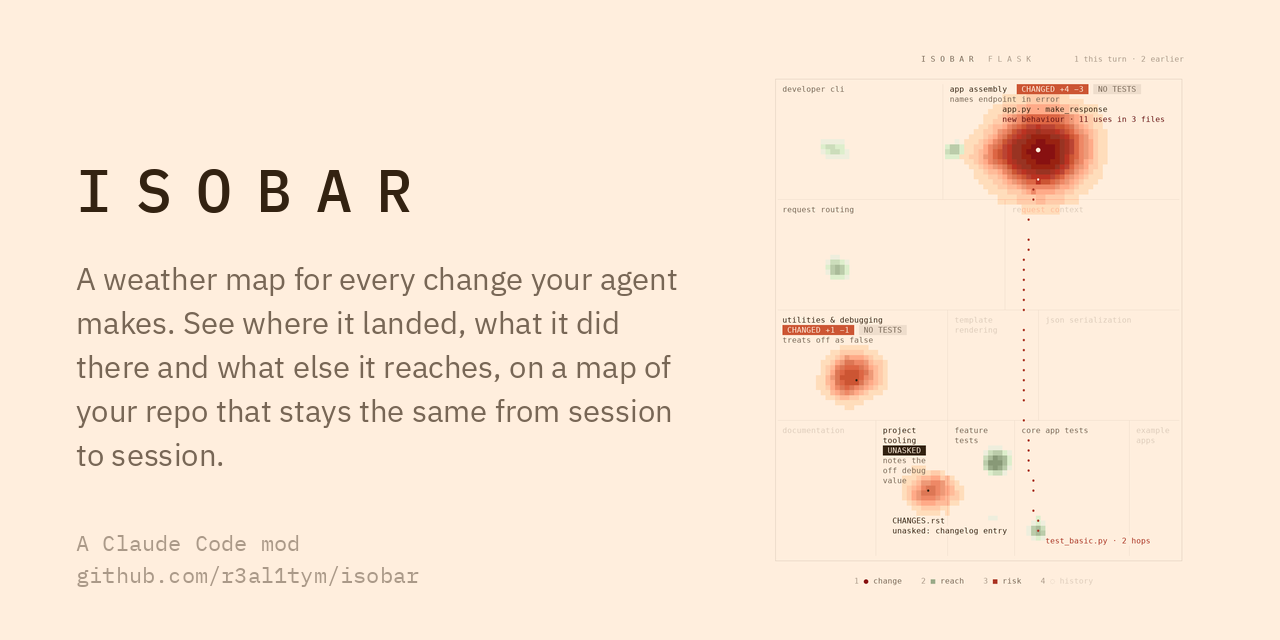
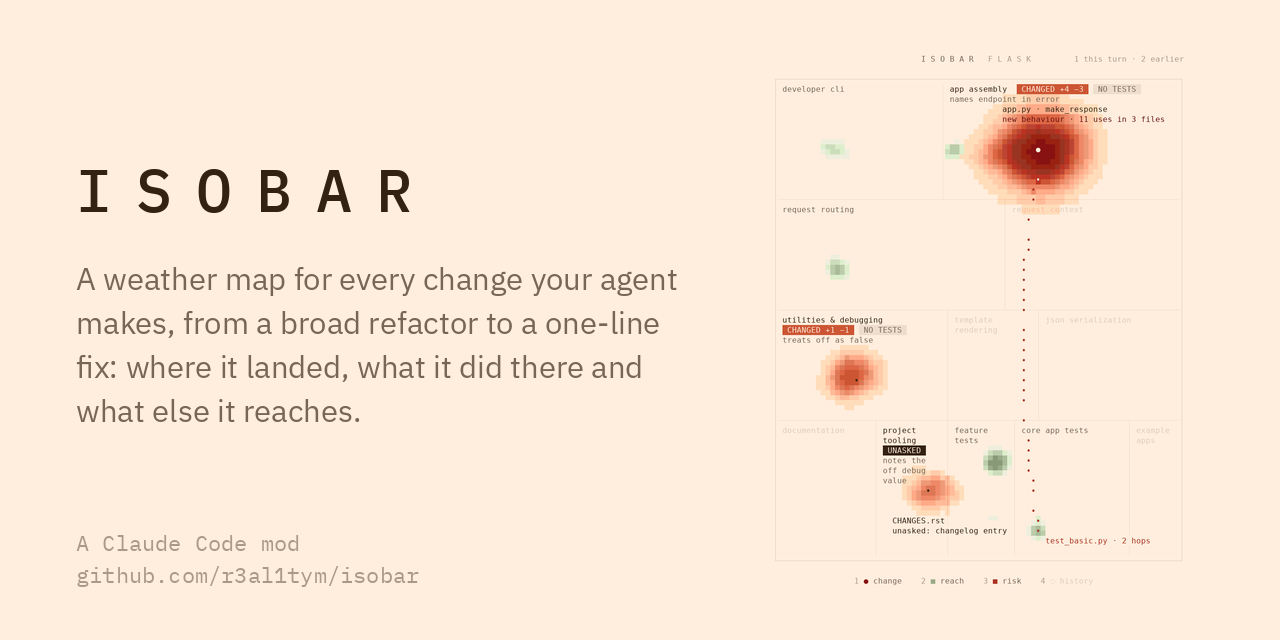
The pitch spans any size of change, from a broad refactor to a one-line fix

diff --git a/README.md b/README.md
@@ -5,9 +5,9 @@
 ![Claude Code mod](https://img.shields.io/badge/Claude%20Code-mod-d97757.svg)
 [![CI](https://github.com/r3al1tym/isobar/actions/workflows/ci.yml/badge.svg)](https://github.com/r3al1tym/isobar/actions/workflows/ci.yml)
 
-> **A weather map for every change your agent makes. Ask for something big, then see where it landed, what it did there and what else it reaches, on a map of your repo that stays the same from session to session.**
+> **A weather map for every change your agent makes, from a broad refactor to a one-line fix. See where it landed, what it did there and what else it reaches, on a map of your repo that stays the same from session to session.**
 
-isobar is a [Claude Code](https://claude.com/claude-code) mod (a plugin built on Claude Code's early-access function hooks, which let it draw its own pane) that docks a pane beside the conversation. Read it like a weather radar: a red storm on the code that changed, a few words under each changed region on what the change did there, and green rain on the code that uses it. You see the shape of a multi-file change before you read its diff, and a part you did not expect it to reach stands out at once. Read the diff for the lines; read the pane for where they landed and what they touch.
+isobar is a [Claude Code](https://claude.com/claude-code) mod (a plugin built on Claude Code's early-access function hooks, which let it draw its own pane) that docks a pane beside the conversation. Read it like a weather radar: a red storm on the code that changed, a few words under each changed region on what the change did there, and green rain on the code that uses it. You see the shape of a change before you read its diff, and a part you did not expect it to reach stands out at once. Read the diff for the lines; read the pane for where they landed and what they touch.
 
 The change is everything uncommitted against HEAD, your own edits included, plus files created during the session; on a clean tree, the last commit.
 
